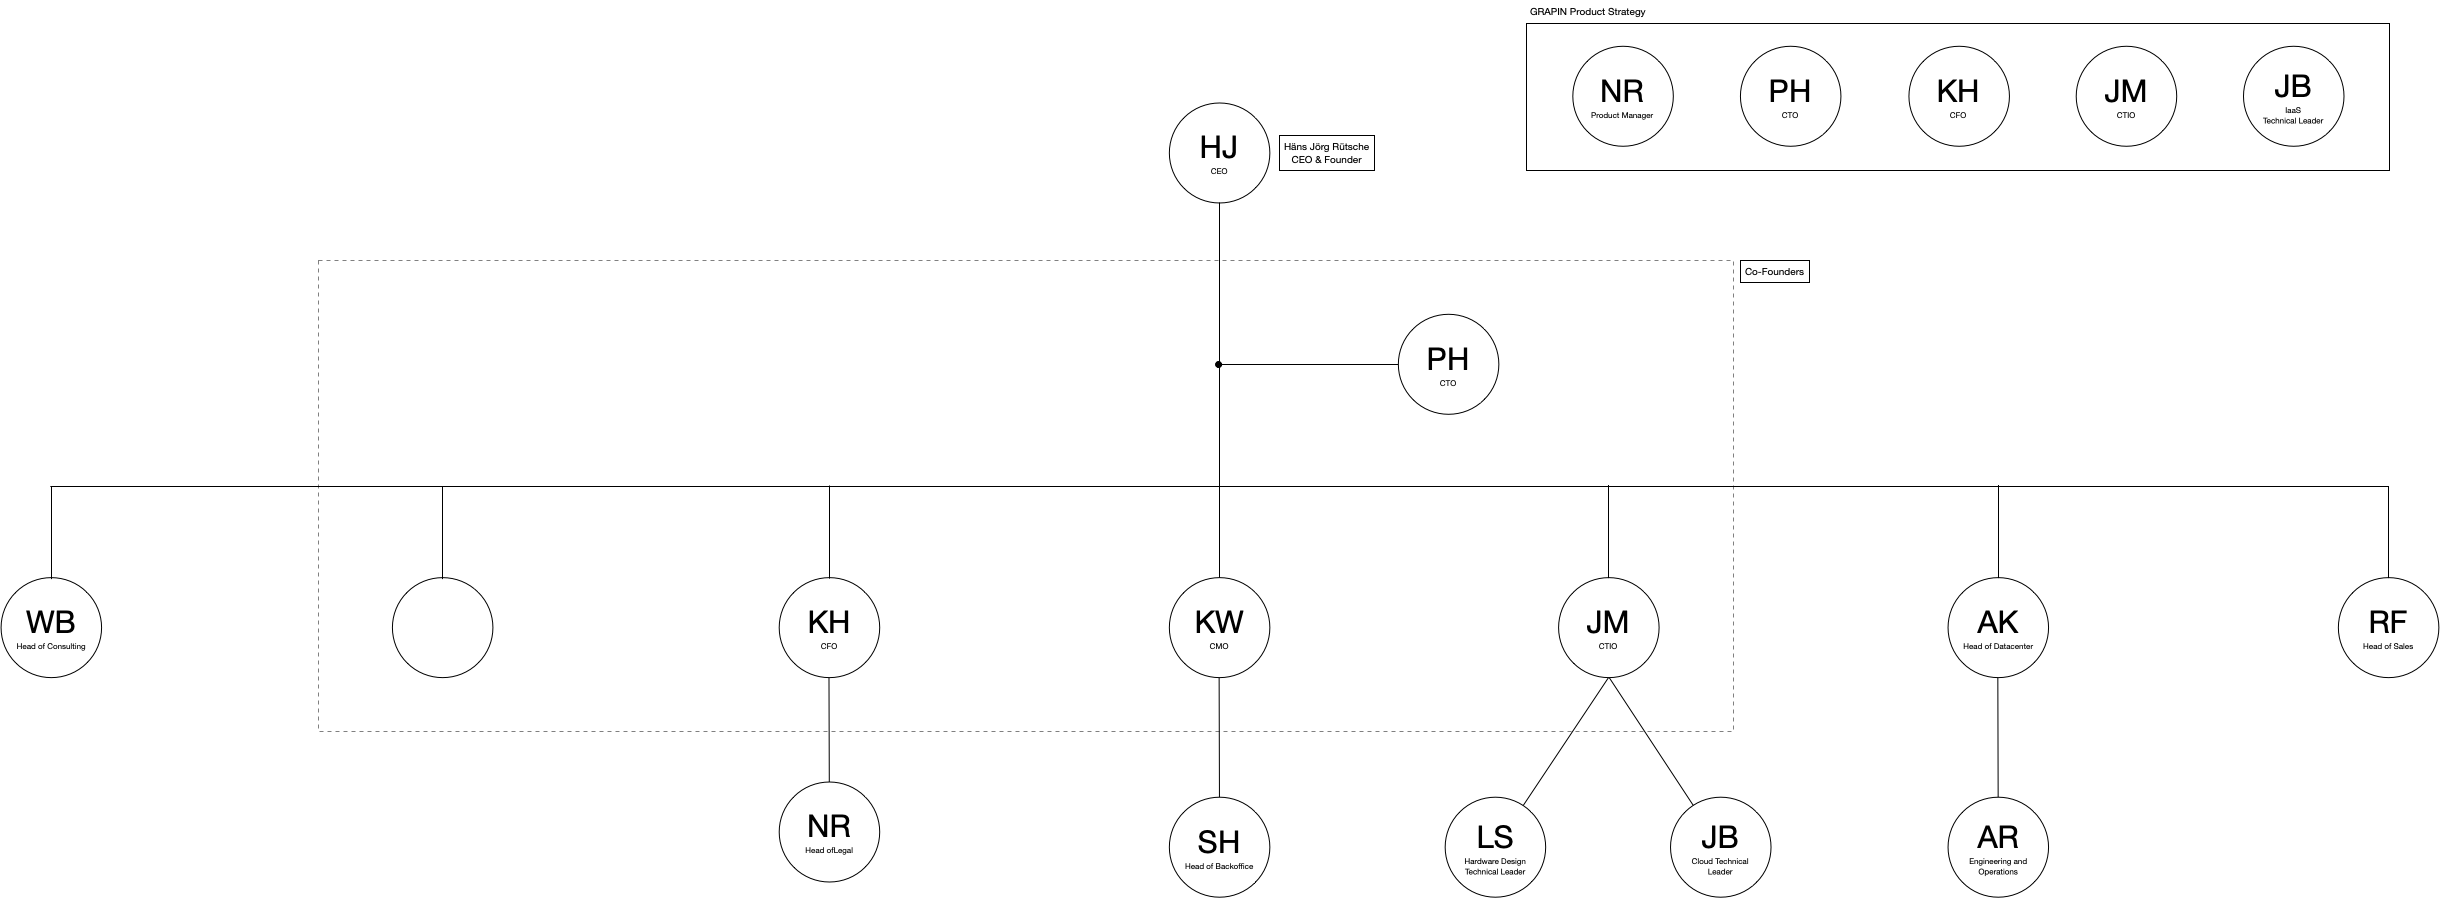
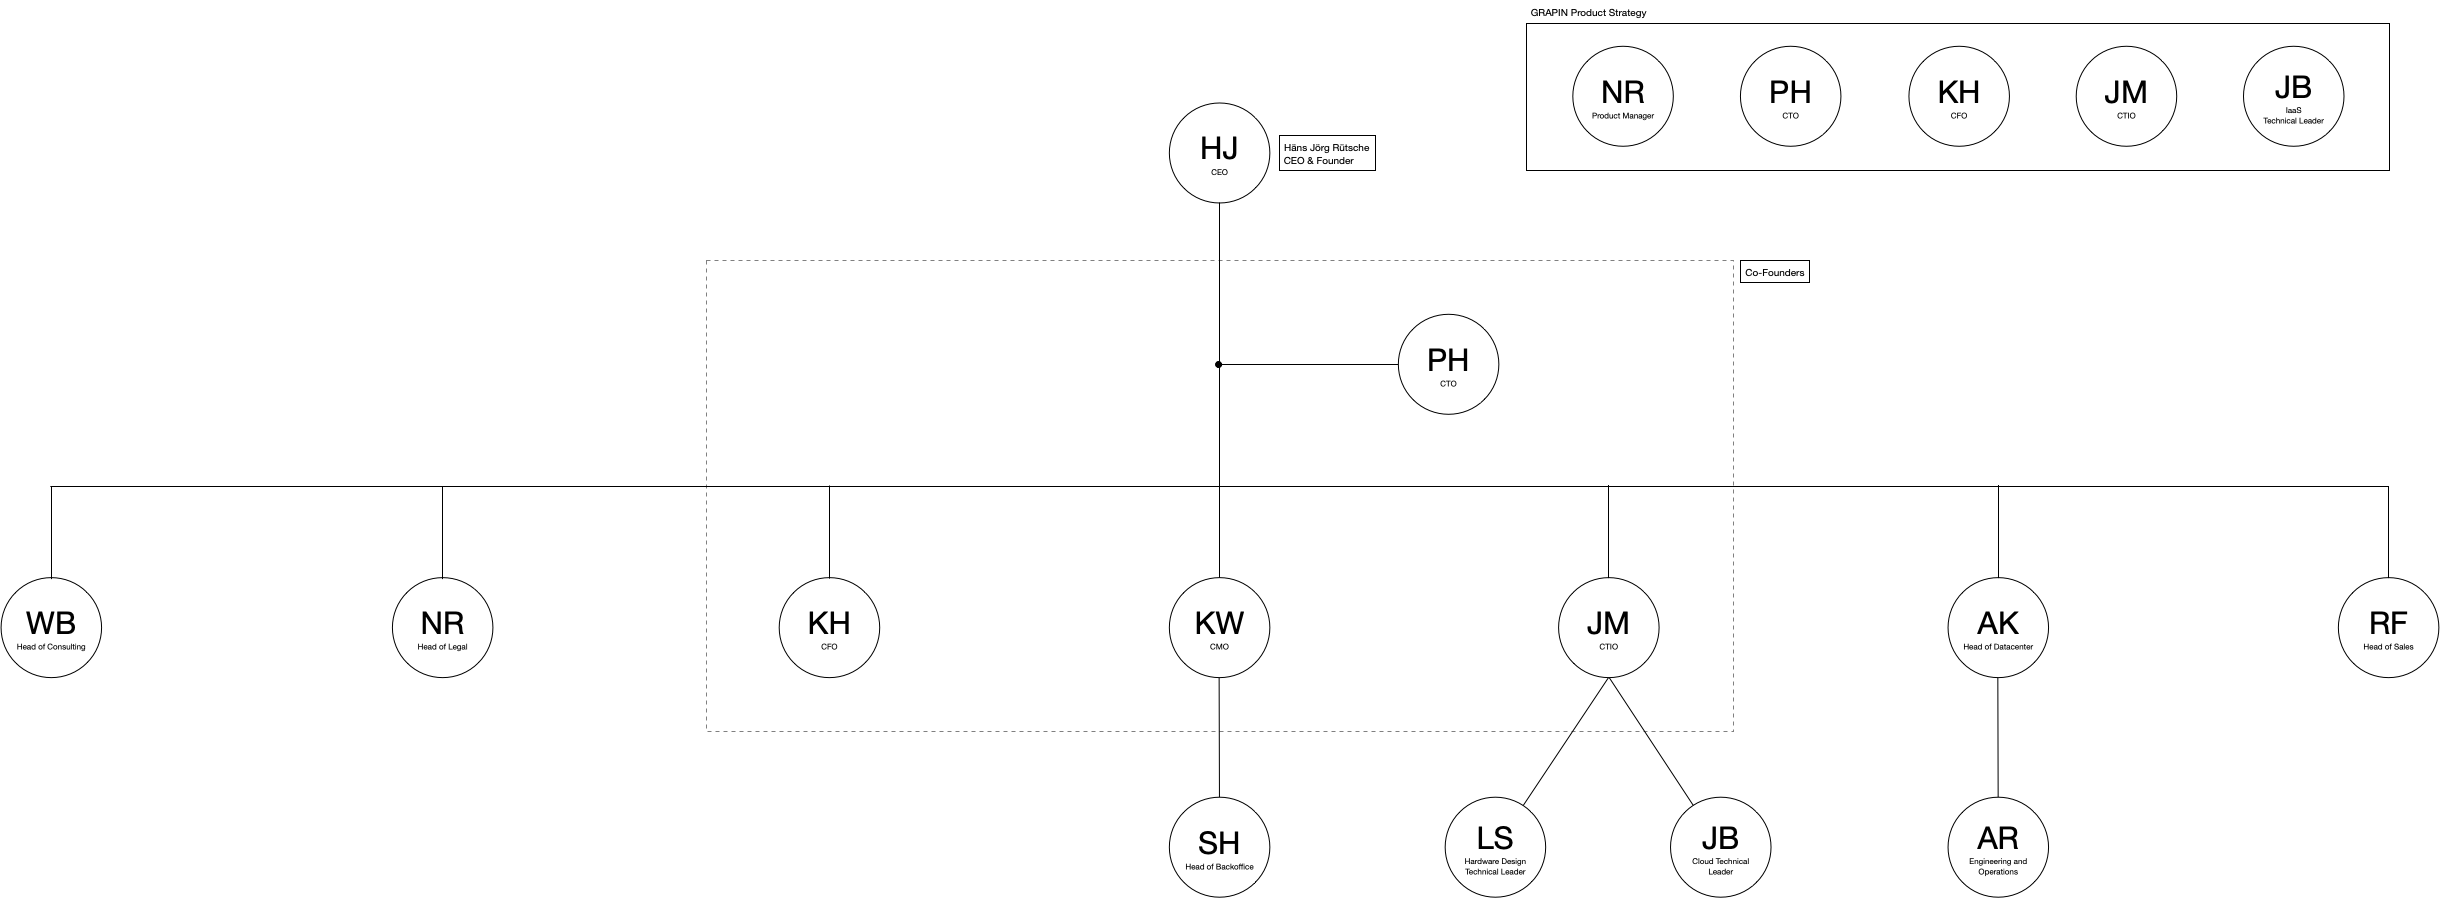
Update

diff --git a/organizational-chart.md b/organizational-chart.md
@@ -10,13 +10,13 @@
 | ------ | ------ | ------ | ------ |
 | Attila Kovacs (AK) | Head of Datacenter | Hans Jörg | Patrick |
 | Antun Remeta (AR) | Engineering and Operations | Attila | Attila |
-| Hans Jörg Rüetsche (HR) | CEO | - | Patrick |
+| Hans Jörg Rütsche (HR) | CEO | - | Patrick |
 | Javier Moya (JM) | Chief Technology Innovation Officer | Hans Jörg | Patrick |
 | José Luis Barahona (JB) | Cloud Technical Leader | Javier and/or Patrick | Javier |
 | Karin Wyler (KW) | CMO | - | Sonja |
 | Kristiaan Hilger (KH) | CFO | Hans Jörg | Nicola |
 | Leo Spichtig (LS) | FPGA Technical Leader | Javier and/or Patrick | Javier |
-| Nicola Rüetsche (NR) | Head of Legal | Hans Jörg | Kristiaan |
+| Nicola Rütsche (NR) | Head of Legal | Hans Jörg | Kristiaan |
 | Patrick Hofstetter (PH) | Chief Technology and Operations Officer | Hans Jörg | Hans Jörg or Javier |
 | Roger Fehr (RF) | Head of Sales | Hans Jörg | Attila |
 | Sonja Herzog (SHE) | Head of Backoffice | Karin | Karin |

diff --git a/who-does-what.md b/who-does-what.md
@@ -1,0 +1,13 @@
+<p align="right">
+<a href="README.md">Home</a> | <a href="tools.md">Back</a>
+</p>
+
+# Who Does What?
+In alphabetical order:
+
+## Attila Kovacs (AK)
+bla bla bla
+
+Organizational Role:
+GRAPIN Cloud Role:
+Projects:
